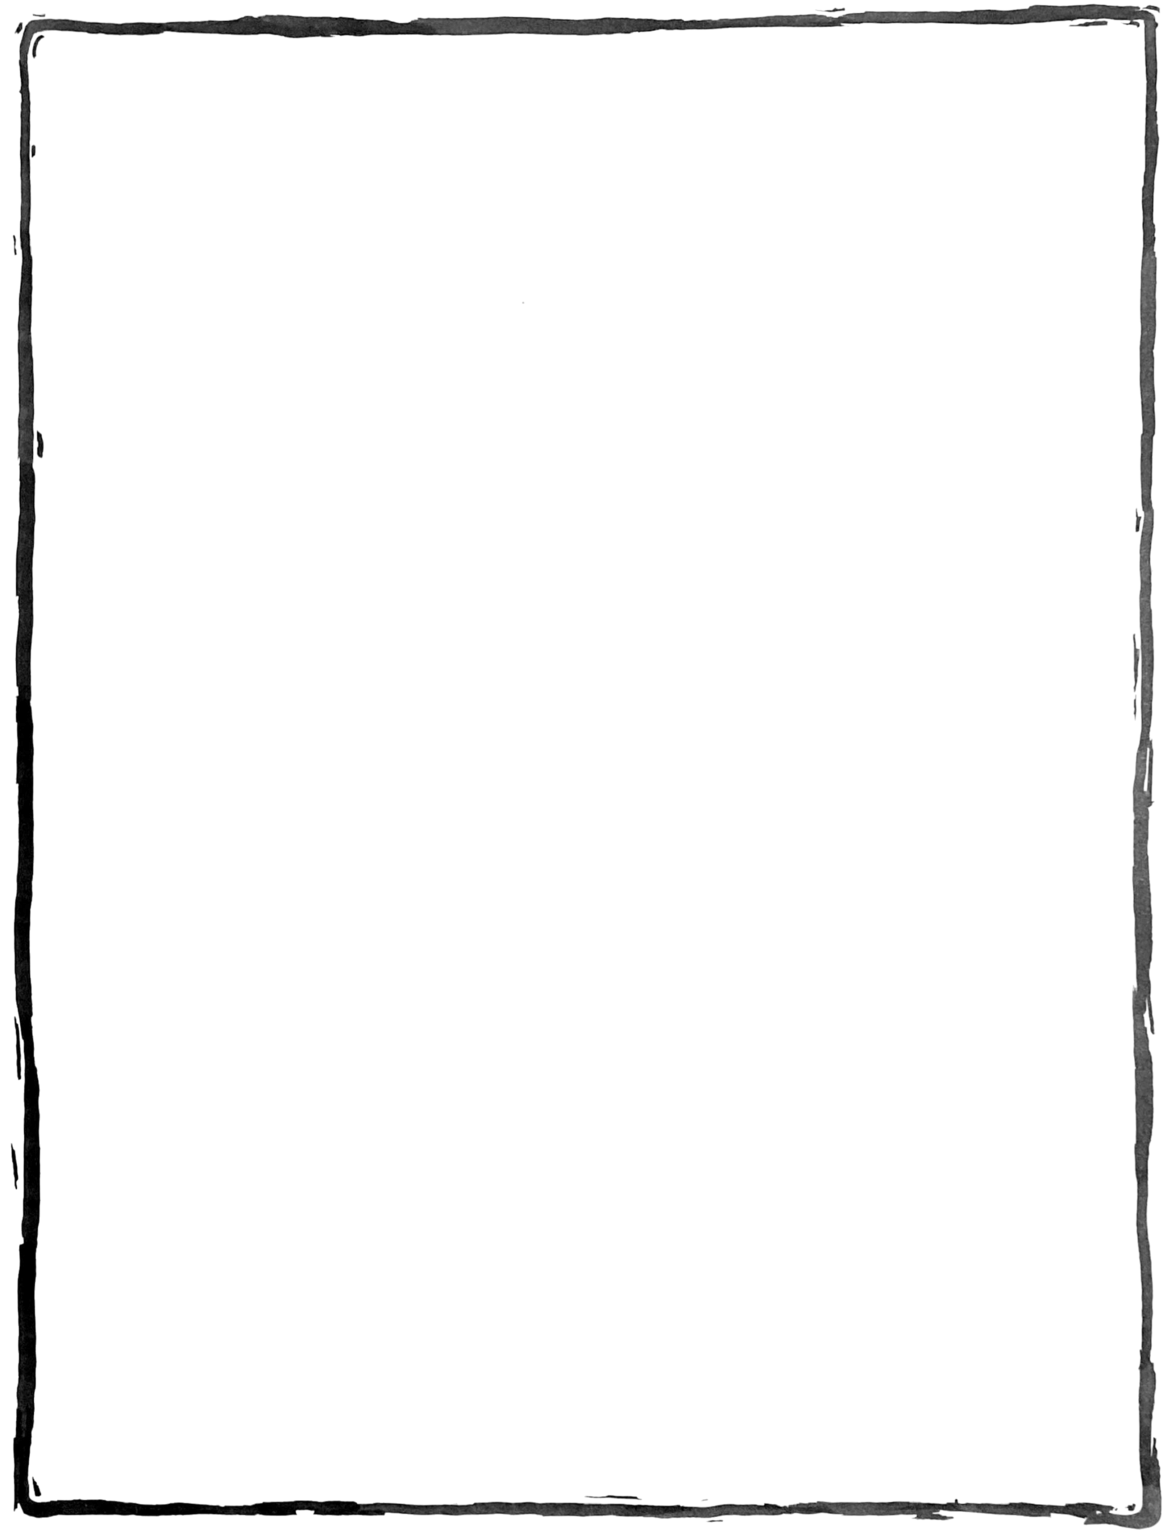
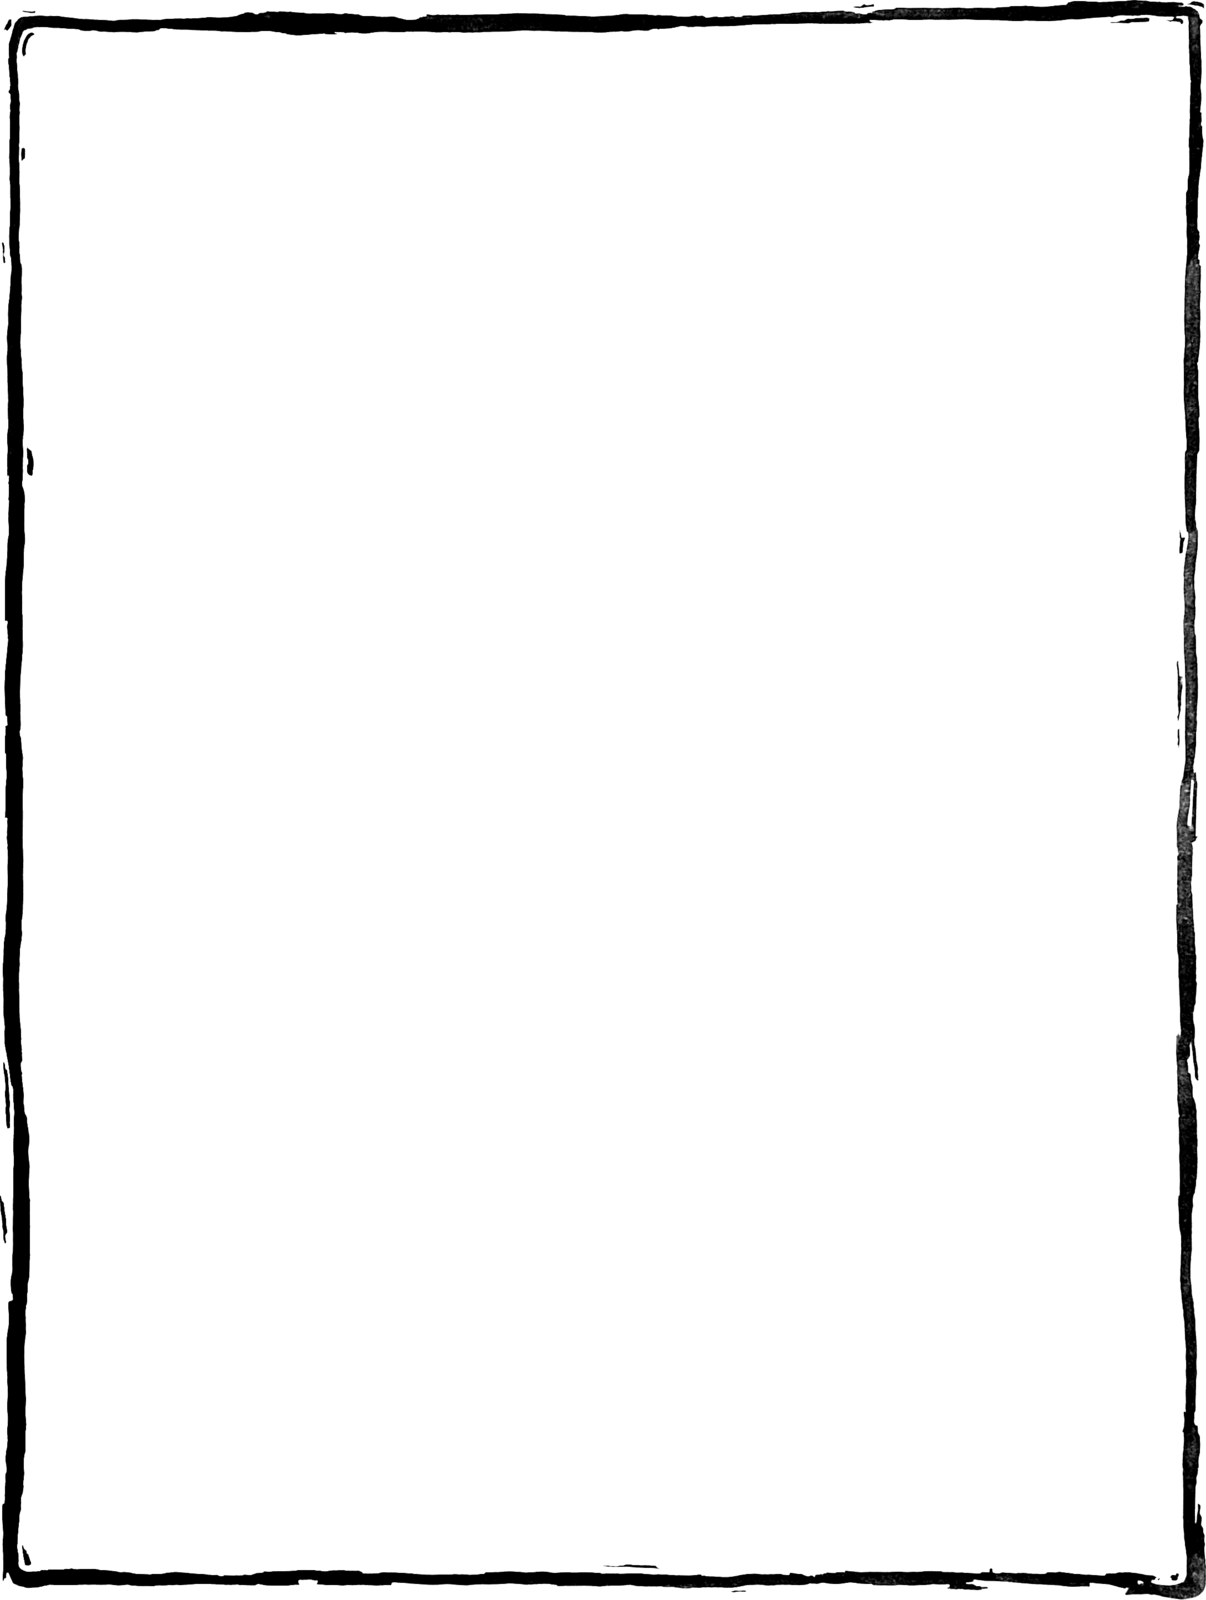
Bold graphics pass, status stickers, and title/menu refinements
- Re-convert all 19 graphics with a bolder recipe (deeper ink, pure black)
- Move the tree title out of the canvas into a plain label above it
- Rebuild the even canvas frame; keep the grey fill inside the sketched line
- Edit menu: drop Nonbinary gender; make Status a 4-option dropdown
- Add hand-drawn status stickers (deceased, dispersed) on the box corner
- Special-case the deceased skull: opaque silhouette + bold top strokes
- Update PLAN.md session notes

Changed region(s): [[0.0, 0.0, 1.0, 1.0]]

diff --git a/index.html b/index.html
@@ -180,9 +180,12 @@
       overflow: auto;
       margin-bottom: 0;
       /* Match the canvas colour so when the canvas is narrower than
-         the viewport, the extra space inside the dashed border still
-         reads as one continuous workspace. */
+         the viewport, the extra space still reads as one continuous
+         workspace. "background-clip: padding-box" stops this grey fill at
+         the inner edge of the border, so the colour sits *inside* the
+         sketched frame instead of bleeding out under the drawn line. */
       background-color: #d8d4cc;
+      background-clip: padding-box;
     }
 
     /*
@@ -206,7 +209,7 @@
     #tree-toolbar {
       position: absolute;
       left: 28px;          /* nudged in so it clears the hand-drawn frame */
-      top: 8px;
+      top: 28px;           /* ...and down, to clear the top frame line */
       z-index: 5;
       display: flex;
       flex-direction: column;
@@ -243,23 +246,32 @@
 
     /* The editable tree title, floating over the top-left of the canvas. */
     #tree-title {
-      position: absolute;
-      left: 76px;          /* just to the right of the toolbar */
-      top: 8px;
-      z-index: 5;
-      width: 320px;
-      max-width: calc(100% - 80px);
+      display: block;
+      margin: 14px 0 -6px;  /* space above (from the Add row); a slight
+                               negative gap below tucks the label right up
+                               against the canvas window */
+      /* "field-sizing: content" makes the box shrink-wrap to the title
+         text, so the opaque background hugs the words instead of being a
+         fixed-width strip. width:auto lets it size to its content; the
+         min/max keep it clickable when empty and stop it overflowing the
+         canvas on very long names. */
+      field-sizing: content;
+      width: auto;
+      min-width: 120px;
+      max-width: calc(100% - 90px);
       padding: 6px 10px;
       font-size: 22px;     /* bigger than the character boxes */
       font-weight: bold;
       color: #2b2b2b;
-      background-color: transparent;   /* see-through, so the empty-state
-                                          message behind it stays visible */
-      border: 1px solid transparent;
+      background-color: #ece8e0;   /* same as the page, so it reads as a
+                                      plain label, not a boxed input */
+      border: 1px solid transparent;  /* invisible at rest; a faint outline
+                                         appears on hover/focus to show it's
+                                         editable */
       border-radius: 8px;
     }
     #tree-title:hover {
-      border-color: #d8d3cb;
+      border-color: #c9c4bd;
     }
     #tree-title:focus {
       outline: none;
@@ -512,17 +524,23 @@
       -webkit-text-stroke: 0.6px currentColor;
     }
 
-    /* The deceased marker (skull and crossbones) in the top-left corner
-       of a box. Positioned absolutely so it overlays the rounded corner. */
-    .deceased-marker {
+    /* A status "sticker" — a hand-drawn symbol (deceased, dispersed)
+       tucked onto a box's top-left corner. The negative top/left make it
+       hang off the corner a little, and the slight rotation + drop shadow
+       give it that lazily-stuck-on look. "object-fit: contain" fits each
+       drawing inside the same 50px square without squashing it, so the
+       different-shaped symbols still read as the same size. */
+    .status-marker {
       position: absolute;
-      top: 0px;
-      left: 4px;
-      font-size: 24px;
-      color: #2b2b2b;
-      font-weight: bold;
-      -webkit-text-stroke: 0.8px currentColor;
-      pointer-events: none;       /* clicks pass through to the box */
+      top: -16px;
+      left: -14px;
+      width: 50px;
+      height: 50px;
+      object-fit: contain;
+      transform: rotate(-16deg);   /* the lazy sticker tilt */
+      pointer-events: none;        /* clicks/drags pass through to the box */
+      filter: drop-shadow(0 1.5px 1px rgba(0, 0, 0, 0.3));
+      z-index: 4;
     }
 
     /* A friendly message shown when the tree area is empty. */
@@ -734,6 +752,10 @@
     <button id="add-button" class="add-button">Add</button>
   </div>
 
+  <!-- The editable clan/tree title, sitting just above the canvas window
+       (in normal page flow, so the window drops down below it). -->
+  <input type="text" id="tree-title" placeholder="Untitled family tree">
+
   <!--
     The tree area is the on-screen "viewport" — a fixed window sized to
     the browser. Inside it sits the canvas, which can be larger; when it
@@ -765,9 +787,6 @@
       <!-- Shows the current zoom as a percentage. JS keeps it in sync. -->
       <div id="zoom-percent">100%</div>
     </div>
-
-    <!-- An editable title for this family tree, shown over the canvas. -->
-    <input type="text" id="tree-title" placeholder="Untitled family tree">
 
     <div id="tree-area">
       <div id="tree-canvas">
@@ -825,18 +844,17 @@
           <option value="male">Male</option>
           <option value="female">Female</option>
           <option value="trans">Trans</option>
-          <option value="nonbinary">Nonbinary</option>
         </select>
       </div>
 
       <div class="modal-field">
-        <span class="modal-field-label">Status:</span>
-        <label class="modal-radio-label">
-          <input type="radio" name="edit-modal-status" id="edit-modal-alive" value="alive"> Alive
-        </label>
-        <label class="modal-radio-label">
-          <input type="radio" name="edit-modal-status" id="edit-modal-deceased" value="deceased"> Deceased
-        </label>
+        <label for="edit-modal-status">Status:</label>
+        <select id="edit-modal-status" class="modal-input">
+          <option value="alive">Alive</option>
+          <option value="deceased">Deceased</option>
+          <option value="dispersed">Dispersed</option>
+          <option value="unknown">Unknown</option>
+        </select>
       </div>
 
       <div class="modal-actions">
@@ -883,14 +901,20 @@
     const SVG_NAMESPACE = "http://www.w3.org/2000/svg";
 
     // Maps a gender value to the Unicode symbol shown next to a name.
-    // An empty string means "show no symbol" — used for "nonbinary" and
-    // "unspecified" (the default).
+    // An empty string means "show no symbol" — used for "unspecified"
+    // (the default).
     const GENDER_SYMBOLS = {
       male:        "♂",   // ♂
       female:      "♀",   // ♀
       trans:       "⚧",   // ⚧
-      nonbinary:   "",
       unspecified: ""
+    };
+
+    // Hand-drawn status "stickers" shown on a box's top-left corner.
+    // Statuses not listed here (alive, unknown) get no sticker.
+    const STATUS_MARKERS = {
+      deceased:  "images/deceased-symbol.png",
+      dispersed: "images/dispersed-symbol.png"
     };
 
     // The relationship types you can start from a box's "+" menu.
@@ -1375,8 +1399,8 @@
         // Display the character box: the name (with a gender symbol
         // after it if one is set), a "+" in the top-right corner to
         // start a new relationship, a pencil icon in the bottom-right
-        // that opens the edit pop-up, and a skull in the top-left if
-        // the character is deceased. Editing happens in a centered
+        // that opens the edit pop-up, and a status sticker in the
+        // top-left corner for certain statuses. Editing happens in a centered
         // modal (openEditModal), not inside the box itself.
         const nameText = document.createElement("div");
         nameText.className = "character-name";
@@ -1423,14 +1447,21 @@
         box.appendChild(nameText);
         box.appendChild(menuButton);
 
-        // Deceased marker — a small skull-and-crossbones over the
-        // top-left corner. Only added when the status is "deceased".
-        if (character.status === "deceased") {
-          const skull = document.createElement("span");
-          skull.className = "deceased-marker";
-          skull.textContent = "☠";
-          skull.title = "Deceased";
-          box.appendChild(skull);
+        // Status sticker — a hand-drawn symbol tucked onto the top-left
+        // corner, hanging off a bit like a stuck-on sticker. Only the
+        // statuses listed in STATUS_MARKERS get one (deceased, dispersed);
+        // alive and unknown show nothing.
+        const markerSrc = STATUS_MARKERS[character.status];
+        if (markerSrc) {
+          const marker = document.createElement("img");
+          marker.className = "status-marker";
+          marker.src = markerSrc;
+          // Capitalise the status word for the hover tooltip and alt text.
+          const label = character.status.charAt(0).toUpperCase()
+            + character.status.slice(1);
+          marker.alt = label;
+          marker.title = label;
+          box.appendChild(marker);
         }
 
         // While connecting, a click on a box finishes the connection.
@@ -1986,8 +2017,7 @@
       const titleEl   = document.getElementById("edit-modal-title");
       const nameInput = document.getElementById("edit-modal-name");
       const genderSel = document.getElementById("edit-modal-gender");
-      const aliveR    = document.getElementById("edit-modal-alive");
-      const deadR     = document.getElementById("edit-modal-deceased");
+      const statusSel = document.getElementById("edit-modal-status");
       const saveBtn   = document.getElementById("edit-modal-save");
       const cancelBtn = document.getElementById("edit-modal-cancel");
       const deleteBtn = document.getElementById("edit-modal-delete");
@@ -1995,9 +2025,9 @@
       titleEl.textContent = "Edit " + character.name;
       nameInput.value = character.name;
       genderSel.value = character.gender || "unspecified";
-      const currentStatus = character.status || "alive";
-      aliveR.checked = (currentStatus === "alive");
-      deadR.checked  = (currentStatus === "deceased");
+      // Show this character's saved status in the dropdown (defaults to
+      // "alive" for characters created before status existed).
+      statusSel.value = character.status || "alive";
 
       overlay.classList.remove("hidden");
       nameInput.focus();
@@ -2017,7 +2047,7 @@
           character.id,
           nameInput.value,
           genderSel.value,
-          aliveR.checked ? "alive" : "deceased"
+          statusSel.value
         );
         cleanup();
       }

diff --git a/PLAN.md b/PLAN.md
@@ -80,7 +80,7 @@ remain on the table as future possibilities.
 | Session | Status   | Goal                                                                                                |
 | ------- | -------- | --------------------------------------------------------------------------------------------------- |
 | 1       | ✅ Done   | Tools installed, repo synced, plan documented                                                       |
-| 1.5     | 🔄 In progress | Integrate Tami's hand-drawn graphics (title ✅, canvas frame ✅, symbols next)                  |
+| 1.5     | 🔄 In progress | Integrate Tami's hand-drawn graphics (title ✅, frame ✅, bold pass ✅, status stickers ✅, more symbols next) |
 | 2       | Next     | Set up Supabase account + project. Modify save/load to use Supabase (cloud) instead of browser local storage. |
 | 3       | Pending  | Add share-link generation (separate edit + view links)                                              |
 | 4       | Pending  | Deploy to Cloudflare Pages, test with community                                                     |
@@ -113,38 +113,52 @@ the second module.
 
 ## Current status
 
-**End of graphics session (2026-06-10).** Began integrating Tami's
-hand-drawn marker graphics. She provided 19 single-page PDFs; we built a
-local, admin-free conversion pipeline and wired the first graphics into
-the page.
+**End of second graphics session (2026-06-11).** Conversion pipeline and
+the first graphics were done last session; this session bolded everything,
+restructured the title, and built the character status stickers.
+
+Graphics conversion (recap + update):
+- All 19 PDFs convert via MuPDF (Node) → ImageMagick. **Now a bolder
+  recipe:** `-level 18%,40%` to deepen the ink + `-fill black -colorize
+  100` for pure black (Tami picked the strongest level). `convert-all.sh`
+  was updated to this; `apply-bold.sh` re-runs everything and syncs into
+  the project. Masters in `F:\...\RPDynastree Graphics-Symbols\PNGs\`.
 
 Done this session:
-- **Converted all 19 PDFs to transparent PNGs.** Technique: MuPDF (run
-  through Node) rasterizes the PDF, then ImageMagick maps *darkness →
-  opacity* so the white paper drops out while the marker hatching and
-  soft edges are preserved. Masters saved to
-  `F:\Pictures-Media\RPDynastree Graphics-Symbols\PNGs\`; web copies live
-  in the project `images/` folder.
-- **Title graphic** (`images/title.png`) now replaces the text `<h1>`
-  (kept the heading tag + `alt` text for accessibility). Sized to 360px.
-- **Canvas frame** (`images/border-lines-even.png`) applied via CSS
-  `border-image`. The raw scan had uneven margins (lines sat 9–80px from
-  the different edges), so an evened copy was made — cropped to ~14px
-  margins all around — for a balanced frame. Current CSS: slice `40`,
-  border-width `16px`, `stretch`. Original `border-lines.png` kept intact.
-- **Toolbar + tree title** nudged right so they clear the new frame.
+- **Bolded all 19 graphics** (title, frame, symbols).
+- **Title moved out of the canvas.** It's now a plain editable label
+  *above* the canvas window (page-coloured background, no border), not a
+  floating overlay. Uses `field-sizing: content` to hug its text.
+- **Canvas frame** rebuilt even + bold (`images/border-lines-even.png`);
+  CSS `border-image` slice `40`, border-width `16px`. Added
+  `background-clip: padding-box` to `#tree-area` so the grey canvas colour
+  stops *inside* the sketched line instead of bleeding under it.
+- **Edit menu:** removed the Nonbinary gender option; **Status is now a
+  dropdown** (Alive / Deceased / Dispersed / Unknown) — was two radios.
+  JS reads/writes it like the gender `<select>`.
+- **Status stickers:** deceased + dispersed statuses now show a hand-drawn
+  symbol tilted on the box's top-left corner like a stuck-on sticker
+  (`.status-marker`, `STATUS_MARKERS` map in JS). Alive/Unknown show none.
+- **Deceased skull special-cased.** It must be OPAQUE (lines/boxes crossing
+  behind it are hidden) and its light top strokes needed extra darkening.
+  Built via `dynastree-img-tools/process-deceased-skull.sh`: solid
+  silhouette (threshold + morphology Close + flood-fill holes) clipped over
+  a `-level 62%,85%` darkened drawing. ⚠ Re-running `convert-all.sh`/
+  `apply-bold.sh` reverts the skull to a plain transparent symbol — re-run
+  `process-deceased-skull.sh` afterwards to restore it.
 
 Pick up next time:
-- **Fine-tune the frame** (thickness / corners) pending Tami's fresh look.
-- **Wire the remaining symbols:** gender (male/female/trans — note: no
-  nonbinary drawn yet), deceased skull, edit pencil, zoom +/- magnifiers.
-  Then the "future-feature" symbols (eye, book, page, menu icons, etc.).
+- **Dispersed sticker** is still see-through (optional: give it a soft
+  opaque backing, like the skull).
+- **Wire the remaining symbols** (still Unicode/SVG in the app): gender
+  ♂♀⚧, the edit pencil, the zoom +/- magnifiers. Then the future-feature
+  symbols (eye, book, page, menu icons, etc.).
 - **Then resume the roadmap:** Session 2 = Supabase.
 
 Housekeeping (before fully wrapping the graphics work):
 - Conversion tools live in `C:\Users\Kevin\dynastree-img-tools\` (MuPDF +
-  the `pdf-to-png.mjs` / `convert-all.sh` scripts) — reusable for future
-  art; delete the folder when graphics work is done.
+  `pdf-to-png.mjs`, `convert-all.sh`, `apply-bold.sh`,
+  `process-deceased-skull.sh`) — reusable for future art; delete when done.
 - **ImageMagick** (installed via winget) is still needed while wiring the
   symbols; **uninstall it** once graphics are finished — Tami asked to
   leave her system as found. Ghostscript never installed; Chocolatey
